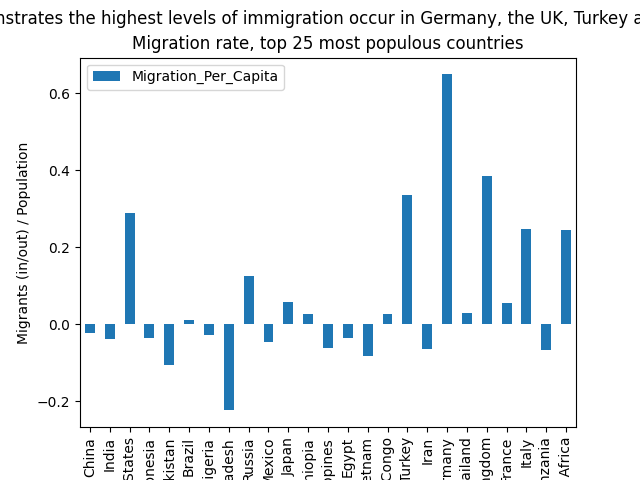
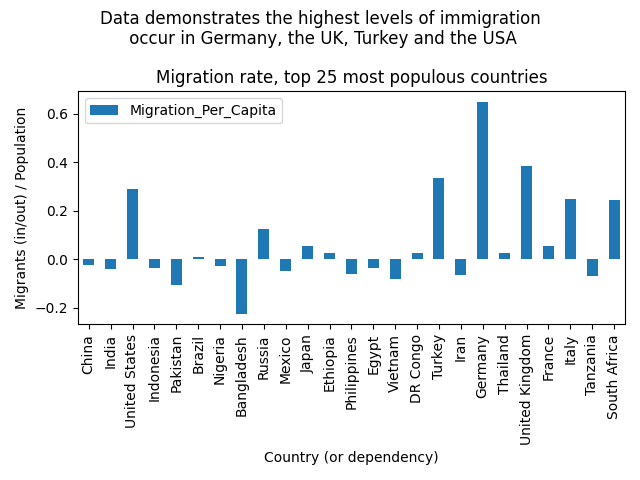
Charts updated to fit title and display block added to body

diff --git a/templates/home.html b/templates/home.html
@@ -8,27 +8,29 @@
     <link rel="stylesheet" href="{{ url_for('static', filename='style.css') }}">
 </head>
 
-<body class="bg-dark text-light">
+<body class="bg-dark text-light d-block">
 
-    <h1>Countries</h1>
-    <p>which country would you like to learn about?</p>
+    <div class="text-center">
+        <h1>Countries</h1>
+        <p>which country would you like to learn about?</p>
 
-    <div class="btn-group">
-      <button type="button" class="btn btn-secondary dropdown-toggle" data-bs-toggle="dropdown" data-bs-display="static" aria-expanded="false">
-        Select Country
-      </button>
-      <ul class="dropdown-menu dropdown-menu-end">
-          {% for country in countries %}
-            <li><a class="dropdown-item" href="/countries/{{ country }}">{{ country }}</a></li>
-          {% endfor %}
-      </ul>
+        <div class="btn-group">
+          <button type="button" class="btn btn-secondary dropdown-toggle" data-bs-toggle="dropdown" data-bs-display="static" aria-expanded="false">
+            Select Country
+          </button>
+          <ul class="dropdown-menu dropdown-menu-end">
+              {% for country in countries %}
+                <li><a class="dropdown-item" href="/countries/{{ country }}">{{ country }}</a></li>
+              {% endfor %}
+          </ul>
+        </div>
     </div>
 
     <div class="container text-center pt-3">
-        <img src="{{ data.heat_map() }}" width="250">
-        <img src="{{ data.chart1() }}" width="250">
-        <img src="{{ data.chart2() }}" width="250">
-        <img src="{{ data.chart3() }}" width="250">
+        <img src="{{ data.heat_map() }}" width="500" class="p-2">
+        <img src="{{ data.chart1() }}" width="500"class="p-2">
+        <img src="{{ data.chart2() }}" width="500"class="p-2">
+        <img src="{{ data.chart3() }}" width="500"class="p-2">
     </div>
 </body>
 </html>

diff --git a/country_data.py b/country_data.py
@@ -115,6 +115,7 @@ class CountriesData:
         # Rotate the tick labels and set their alignment.
         plt.setp(ax.get_xticklabels(), rotation=25, ha="right", rotation_mode="anchor")
         ax.set_title("Country Statistic Correlation Heatmap")
+        fig.tight_layout()
         heat_map_chart = 'static/heat_map.png'
         plt.savefig(heat_map_chart)
         return heat_map_chart
@@ -124,7 +125,8 @@ class CountriesData:
         df.head(25)[['Country (or dependency)', 'Migration_Per_Capita']].plot.bar(x='Country (or dependency)')
         plt.ylabel("Migrants (in/out) / Population")
         plt.title("Migration rate, top 25 most populous countries")
-        plt.suptitle("Data demonstrates the highest levels of immigration occur in Germany, the UK, Turkey and the USA")
+        plt.suptitle(f'Data demonstrates the highest levels of immigration\n occur in Germany, the UK, Turkey and the USA')
+        plt.tight_layout()
         chart1_chart = 'static/chart1.png'
         plt.savefig(chart1_chart)
         return chart1_chart
@@ -136,7 +138,8 @@ class CountriesData:
         plt.ylabel("Migrants (in/out) / Population")
         plt.title("Migration rate and population growth, top 25 most populous countries")
         plt.suptitle(
-            "However, those countries with the highest migration rate are not experiencing heavy population growth")
+            f'However, those countries with the highest migration\n rate are not experiencing heavy population growth')
+        plt.tight_layout()
         chart2_chart = 'static/chart2.png'
         plt.savefig(chart2_chart)
         return chart2_chart
@@ -146,8 +149,9 @@ class CountriesData:
         df.head(25)[['Migration_Per_Capita', 'Med. Age']].plot.scatter(x='Migration_Per_Capita', y='Med. Age')
         plt.ylabel("Average Age")
         plt.xlabel("Migrants (in/out) / Population")
-        plt.title("Migration rate vs. average age of population, top 25 most populous countries")
-        plt.suptitle("In fact, those countries with the highest migration rate have ageing populations, and are therefore in need of migrants of working age")
+        plt.title(f'Migration rate vs. average age of population\n Top 25 most populous countries')
+        plt.suptitle(f'In fact, those countries with the highest migration rate have\n ageing populations, and are therefore in need of migrants of working age')
+        plt.tight_layout()
         chart3_chart = 'static/chart3.png'
         plt.savefig(chart3_chart)
         return chart3_chart

diff --git a/app.py b/app.py
@@ -14,6 +14,7 @@ app = Flask(__name__)
 # from flask import Response
 # import numpy as np
 
+
 @app.route('/')
 def home():
     countries_list = country_data.sorted_country
@@ -28,8 +29,7 @@ def country_info(name):
     return render_template('country_info.html', country=name, countrydetails=countrydetails)
 
 
-
 if __name__ == "__main__":
     app.run(host=os.environ.get("IP"),
-            port=int(os.environ.get("PORT")),
+            port=os.environ.get("PORT"),
             debug=True)
